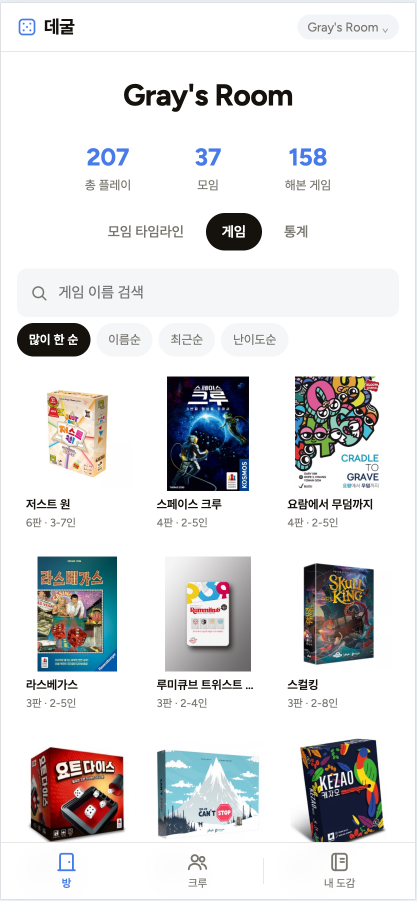
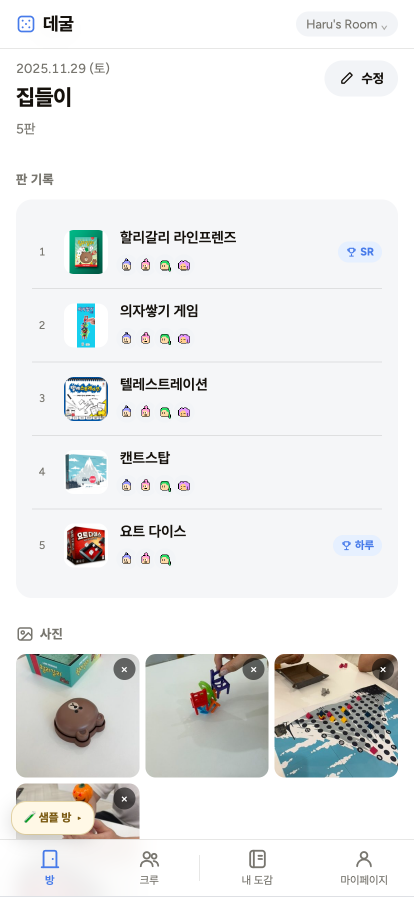
5조 그레이(김수현) 4주차 과제 최종 제출 — 유저 피드백(깨진 가정)·베타 샘플 방·가상 페르소나·SNS 기록
- 과제 2: 주 페르소나 「기록자」 실제 피드백 (새벽 관찰 + '깨진 가정 한 줄') / 베타 테스터 링크 공유 / 가상 페르소나 패널 인터뷰(virtual-customer-feedback 스킬)
- 과제 3: 인스타그램 피드 기록 + 링크
- 스크린샷 5장을 베타 샘플 방 화면으로 교체 (표 배치)
- 페르소나 호칭 '사서'→'기록자' 정정

diff --git a/1_mission/5조/그레이(김수현)/4주차 과제 제출 폴더/submission.md b/1_mission/5조/그레이(김수현)/4주차 과제 제출 폴더/submission.md
@@ -14,24 +14,22 @@ date: 2026-07-25
 > 이번 주는 "나만의 OS"에서 한 발 나아가, **친구들이 실제로 함께 쓰는 프로덕트**를 만들어봤다.
 > 앱 이름은 **데굴** (주사위가 데굴데굴 굴러가는 느낌).
 > **🔗 라이브: https://degul-app.vercel.app**
-> *(이 제출은 1차본이다. 미션 1을 먼저 내고, 베타테스터가 볼 수 있는 샘플 계정·유저 피드백은 일요일 최종 제출까지 이어서 진행 중.)*
 
 ## 🎯 과제 1. PRD 기획 및 구현
 > 주요 가치 · 페르소나 · 소구 방식을 담은 PRD → 구현까지
 
 **한 줄 소개:** 보드게임 모임을 "누구와, 어떤 게임을, 몇 번째로 했는지"까지 남기는 — 초대된 사람만 보는 기록 앱.
-*(전체 PRD는 강의 6항목 + 검증할 가정까지 별도로 상세 작성.)*
 
 - **주요 가치:**
   메인은 **애정** — "우리가 사랑한 판이 그대로 남는다". **사람에 대한 애정**(데이터가 아니라 캐릭터로 사람이 남는다)과 **게임에 대한 애정**(도감에 쌓인다) 둘 다. 받쳐주는 가치는 ① **빈칸을 강요하지 않음**(승자·사진·평은 쓰고 싶을 때만) ② **바깥이 없음**(초대된 사람만, 좋아요·팔로우·랭킹 없음 — SetLog의 "채점받지 않는 소통" 결).
   *근거: 앱을 설명하며 내가 뱉은 두 단어가 "애정"과 "재미"였다. "보드게임 자체가 효율적인 일은 아니야. 그냥 애정과 재미 그 자체지."*
 
 - **페르소나:** 나이·직업이 아니라 **상황**으로 좁혔다. (실제 내 크루 기반, 정체는 역할명으로만)
-  - ⭐ **주 페르소나 = 「사서」**(모임의 기록자) — "기록이 있으면 마음이 편한 사람". 스프레드시트에 206판을 적어온 친구. **이 사람이 입력을 멈추면 앱에 데이터가 0**이라, 가치의 수신자가 아니라 앱을 살리는 사람. → "이 친구가 좋아할 앱은 뭘까"가 모든 결정의 기준이 됐다.
+  - ⭐ **주 페르소나 = 「기록자」**(모임의 기록자) — "기록이 있으면 마음이 편한 사람". 스프레드시트에 206판을 적어온 친구. **이 사람이 입력을 멈추면 앱에 데이터가 0**이라, 가치의 수신자가 아니라 앱을 살리는 사람. → "이 친구가 좋아할 앱은 뭘까"가 모든 결정의 기준이 됐다.
   - 「룰마」(룰마스터 2명, 헤비 플레이어) / 「라이트」(즐겜 참가자, 나 본인 — 기록은 안 하지만 다시 보는 걸 좋아함)
 
 - **소구 방식:** 가치를 그 사람의 언어로 번역했다.
-  - 사서에게 → **"한 판 저장하면 바로 다음 판. 승자는 쓰고 싶을 때만."**
+  - 기록자에게 → **"한 판 저장하면 바로 다음 판. 승자는 쓰고 싶을 때만."**
   - 룰마에게 → **"준비해온 룰, 다 같이 볼 수 있게 걸어둬요."** / **"해본 게임이 도감에 쌓여요."**
   - 라이트에게 → **"누구랑 몇 번째로 만났는지가 남아요."**
   - 크루 전체 → **"초대한 사람만 봅니다. 좋아요 없어요."**
@@ -40,9 +38,9 @@ date: 2026-07-25
   **🔗 라이브: https://degul-app.vercel.app** — 실제 **206판·게임 157개·캐릭터 11명** 데이터로 작동 중.
   기술: 정적 HTML/CSS/JS + Supabase(RPC 창구 방식 보안) + Vercel.
 
-  > 📌 위 스크린샷의 데이터는 **내 개인 계정**으로 들어갔을 때 보이는 실제 우리 크루 기록이다.
-  > **베타 테스터가 눌러볼 수 있는 샘플 계정을 생성 중** — 완성되면 코드를 공유할 예정.
-  > 기다리지 않고 **지금 바로 빈 방을 만들어** 처음부터 써봐도 된다. (테스트 중 앱이 수정돼도 만든 데이터는 안전하게 유지된다.)
+  > 📌 아래 스크린샷은 **누구나 들어가볼 수 있는 베타 테스트 샘플 방**이다. 실제 우리 크루의 217판을 복사해 익명화한 실데이터다.
+  > **직접 눌러보기** → 개인 코드 `degulsample2` · 방 코드 `degultest2` (지우고 고쳐도 OK — 화면의 🧪 버튼으로 언제든 처음 상태로 되돌아간다)
+  > 빈 방을 새로 만들어 처음부터 써봐도 된다.
 
   가장 큰 배움은, **만들다 보니 구조가 대화로 진화**했다는 것이다. "내가 쓴 평점을 남이 보면 안 되지"라는 한마디에서 출발해 → 개인 도감에 자물쇠가 필요해지고 → **"방 위에 사람"이라는 3층 구조**로 발전했다. 원래 다음 단계로 미뤘던 계정·초대·개인 도감까지 이번에 구현됐다.
 
@@ -53,34 +51,94 @@ date: 2026-07-25
      └ 모임·판·참여자(공용) · 게임 · 캐릭터 · 방장
   ```
 
-  **핵심 기능:** 모임·판 기록(판마다 참여자 지정) · 게임 도감·통계 · 개인 도감(나만 보는 평점·한줄평) · 방장 시스템 · 완료 모임 에피소드(댓글) · 넷플릭스식 계정 전환 · 캐릭터(도트 이미지/이모지/사진).
+  **핵심 기능:** 모임·판 기록(판마다 참여자 지정) · 게임 도감·통계 · 개인 도감(나만 보는 평점·한줄평) · 방장 시스템 · 완료 모임 에피소드(댓글) · 넷플릭스식 계정 전환 · 캐릭터(이미지/이모지/사진).
 
-  > *스크린샷의 캐릭터 닉네임은 임시 — 베타 테스터에게 줄 샘플 계정에서 교체 예정.*
 
-  ![방 — 모임 타임라인](이미지첨부/1.png)
-  *① 방 — 통계 요약 · 같이 한 사람들 · 연도별 모임 타임라인 · 게임 칩(누르면 게임 정보 팝업).*
+  | 방 — 모임 타임라인 | 모임 상세 | 게임 도감 | 내 도감 게임 상세 | 마이페이지 |
+  |---|---|---|---|---|
+  | ![방](이미지첨부/1.png) | ![모임 상세](이미지첨부/2.png) | ![게임 도감](이미지첨부/4.png) | ![내 도감 게임 상세](이미지첨부/6.png) | ![마이페이지](이미지첨부/7.png) |
 
-  ![게임 도감](이미지첨부/2.png)
-  *② 게임 — 해본 게임을 박스아트로. 많이 한 순·이름·최근·난이도로 정렬.*
-
-  ![통계](이미지첨부/3.png)
-  *③ 통계 — 최다 플레이 게임 · 연도별 · 모임별 · 최다 참여 크루 · 처음 함께한 날 · 찰떡 짝꿍.*
-
-  ![크루](이미지첨부/4.png)
-  *④ 크루 — 함께한 사람들. 캐릭터를 개인 코드로 "잡으면" 그 방의 내 판들이 내 도감에 모인다.*
-
-  ![내 도감](이미지첨부/5.png)
-  *⑤ 내 도감 — 여러 방을 가로질러 모이는 나만의 기록. 평점·한 줄 평은 나만 본다(개인 코드로만 열림).*
+  *① 방 — 통계 요약·같이 한 사람들·연도별 타임라인 ② 모임 상세 — 판 기록·승자·사진 ③ 게임 도감 — 해본 게임을 박스아트로, 6가지 정렬·CSV 일괄 등록 ④ 내 도감 게임 상세 — 소장 배지·방마다 골라 공개·방별 판 기록 ⑤ 마이페이지 — 넷플릭스식 계정 전환·방 관리*
 
 ## 🗣 과제 2. 유저 피드백 받기
-> 실제 2명 이상 + 플러스 알파로 가상 페르소나
 
-- **실제 유저 피드백:** 실제 보드게임을 같이 하는 친구에게 유저 피드백을 받을 예정.
-- **가상 페르소나 피드백:** NVIDIA Nemotron-Personas-Korea 기반 가상 페르소나 피드백도 진행해 볼 예정.
-- **피드백에서 알게 된 것:** *(진행 후 작성)*
+### 실제 유저 피드백 ① — 주 페르소나 「기록자」
+
+전날 이 친구에게 "게임 정보를 기록할 때 어디서 끌어오냐"고 물어봐 둔 참이었다(답: 보드게임긱). 그리고 하루 종일 앱을 수정하다가, 어느 정도 완성돼 간다 싶던 **새벽 1시 35분** — "어제 그거 만들고 있는데 수정할 게 너무 많아"라며 DM으로 URL을 보냈다.
+
+한 시간 뒤 친구가 '구경하러 들어가기' 화면을 캡처해 보내왔다(방 코드를 알려달라는 뜻). 방 코드를 주면서 내가 부탁한 건 하나였다 — **"이상한거 보이거나 수정했으면 좋겠는 부분 말해주세여."** 그러니까 부탁한 건 *봐달라*는 것이었지, *채워달라*는 게 아니었다.
+
+> "오오ㅏ 싱기하고 구엽닼ㅋㅋㅋ" → "너무나 내가 조아하는 기록" → **"장소 내가 넣어도 돼?"**
+
+"갑자기 또 기록시작하냐구ㅋㅋ" 하면서 "넣으세여" 했더니, 새벽 4시 반 — **"장소 다 넣었구."** 비어 있던 모임 장소를 정말 다 채운 것이다. 그 뒤로도 멈추지 않았다 —
+게임 이름 뒤에 붙은 메모 때문에 정보가 안 불려오는 걸 발견하고 **직접 정리했고**("뒤에 (12~16) 이렇게 몇번째 임무 적어놔서 게임 정보 안불러와져서"), 내가 기억 안 나서 네댓 개만 넣어뒀던 「먼 옛날」 모임에 자기 스프레드시트를 뒤져 **게임을 10개로 늘려놨다.**
+
+**버그도 유저가 먼저 찾았다:**
+- **"저장이 안돼요"** — 도감 평점·코멘트 저장이 전원 고장 나 있던 걸 발견 (DB 함수 실수. 더 나빴던 건 실패해도 화면에 아무 말이 없던 것 → 실패 안내 표시까지 고침)
+- 게임 팝업에 출시 연도가 두 번 나오는 것, 페이퍼 사파리 이미지가 확장팩 이미지로 잘못 등록된 것까지 캡처로 제보
+- 기능 요청: "댓글 수정 기능은 안되나요" → 그 자리에서 만들어 배포
+
+그리고 새벽 5시 34분, 이 한마디가 왔다.
+
+> **"평점 코멘트 다른 사람이 남긴것도 보고 싶은데 이거슨 비밀인가여"**
+> **"나는 다른 사람들에 남긴거 구경하는 재미가 잇는데ㅋㅋ"**
+
+### ⭐ 깨진 가정 한 줄
+
+> **"기록은 혼자 하는 일이라고 생각했는데, 이 친구에게 기록은 같이 노는 일이었다."**
+
+두 겹으로 깨졌다.
+- **PRD 가정 A3-c** — "의견(평점·한 줄 평)은 본인만 적으니, 도감은 나만 보는 게 맞다"고 설계했다. 반은 맞았다(적는 건 본인만). 하지만 **보여주고 싶어 한다는 건 놓쳤다.** → 그날 밤 **게임마다·방마다 골라서 공개하는 스위치**를 만들어 배포했다. 기본은 여전히 비공개, 메모·사진은 언제나 비공개 — "솔직하게 쓴다"는 원래 가치는 지키면서.
+- **더 깊은 가정** — 나는 이 친구가 정말 좋아서 기록하는 건지 가끔 물어볼 만큼 반신반의했다. 내가 부탁한 건 "이상한 곳 알려주기"뿐이었는데, "장소 내가 넣어도 돼?"라고 먼저 묻고는 새벽 내내 남의 앱 데이터를 돌보는 걸 보고 알았다. **진심이었다.**
+
+### 실제 유저 피드백 ② — 베타 테스터 링크 공유
+
+누구나 볼 수 있게 **실데이터를 복사·익명화한 샘플 계정**을 열어뒀다. (개인정보 제거, 망가뜨려도 되는 복사본, 화면의 🧪 버튼으로 언제든 초기화)
+
+> **https://degul-app.vercel.app** · 개인 코드 `degulsample2` · 방 코드 `degultest2`
+
+### 가상 페르소나 피드백 — 패널 인터뷰 (강의 스킬 `virtual-customer-feedback` 사용)
+
+> ⚠ **가상 피드백은 실제 검증의 전 단계다** — 실제 유저(위 기록자) 피드백을 대체하지 않는다.
+> 페르소나 팩 30명 중 "보드게임 모임" 카드는 없어서, 규칙대로 **가장 가까운 분석형 게이머·기록 성향 3명**을 부르고 차이를 명시한다. (룰마와 겹치는 속성: 게임 분석·기록 습관 / 다른 속성: 보드게임 크루 소속 여부는 카드에 없음)
+
+**패널에게 준 설명:** "친구들끼리 보드게임 모임을 기록하는 앱. 방 코드로 초대받고, 개인 코드 12자리가 계정(이메일·가입 없음, 분실 시 복구 불가). 모임·판·참여자를 남기면 게임 도감·통계가 쌓이고, 룰 영상을 걸어둘 수 있다. 평점은 기본 비공개, 원하면 방마다 공개. 좋아요·랭킹 없음, 무료."
+
+**이태훈 (27세, 구직 중, 경기 파주)** — e스포츠 전략을 메모하며 보는 분석형, 변수 싫어함
+> 첫 반응: "판마다 참여자를 남긴다는 건 좋네요. 데이터가 쌓이면 조합 분석이 되니까." / 안 쓸 이유: ① "저는 같이할 사람이 없어서요… 이건 제 문제지만" ② "뭘 얼마나 적어야 하는지 기준이 없으면 오히려 불안해요. '쓰고 싶을 때만'은 저 같은 사람한텐 매뉴얼 부재예요" / 그래도 쓴다면: "통계 때문에. 승률 나오면 진짜 열심히 할 듯" / 한 문장: "기록 쌓이면 재밌어지는 타입의 앱."
+
+**원상희 (38세, 재취업 준비, 경기 안양)** — 십 원 단위로 정산하는 꼼꼼함, 모바일 게임 일일 퀘스트
+> 첫 반응: "기록 좋아하는 사람은 환장하겠는데요, 저처럼." / 안 쓸 이유: ① "제 모임은 술자리라 적을 게 없어요" ② "일퀘처럼 매일 들어올 이유가 없잖아요. 모임이 한 달에 한 번이면 앱도 한 달에 한 번 열리는 거고" / 그래도 쓴다면: "누가 정산처럼 역할을 맡기면 잘할 자신 있어요" / 한 문장: "모임에 나 같은 사람 있으면 물건이다."
+
+**송순근 (49세, 출판사 정보보안 전문가, 서울 목동)** — 인접 세그먼트
+> 첫 반응: "이메일 없이 코드 두 개라… 오히려 공격면이 작아서 나쁘지 않아요." / 안 쓸 이유: ① "방 코드 하나 알면 그 방 기록이 다 보인다는 건데, 코드가 카톡방에서 한 번 새면 끝이죠. 코드 재발급이 있어야 해요" ② "40대 후반 모임에서 이런 걸 깔자고 하면 아무도 안 깔아요" / 그래도 쓴다면: "애들(자녀) 친구 모임 같은 데선 되겠죠" / 한 문장: "보안 구조는 소박해서 좋은데, 코드 유출 시나리오는 준비해라."
+
+**요약**
+- **공통 거절 이유:** "기록을 도맡을 사람이 내 모임엔 없다" — 3명 중 2명. 데굴은 **기록자가 있는 크루에서만 사는 앱**이라는 가두리 경계가 재확인됐다. (= 무시해도 되는 거절: 애초에 크루가 없는 사람은 고객이 아님)
+- **갈린 반응:** 개인 코드 — "가입 없어 편하다"(원상희) vs "유출되면 끝이니 재발급이 필요하다"(송순근). **타깃도 느낄 수 있는 약점**이라 분실 안내 문구를 이미 강화했고, 방 코드 재발급은 운영자 기능(8월 예정)에 넣기로.
+- **다음 액션:** ① 실제 룰마 2명에게 승률·통계 수요 확인 (이태훈의 "승률 나오면 열심히 할 듯"이 진짜인지) ② 코드 유출·재발급 시나리오 문서화.
+
+**🧽 가상 고객 피드백 이기적공유 카드**
+- 프로덕트: 데굴 — 초대된 크루만 쓰는 보드게임 모임 기록 앱
+- 만난 가상 고객: 이태훈(27·구직) · 원상희(38·재취업 준비) · 송순근(49·정보보안)
+- 가장 의외였던 반응: "'쓰고 싶을 때만'은 저 같은 사람한텐 **매뉴얼 부재**예요" (이태훈) — 빈칸을 강요하지 않는 게 자유가 아니라 불안일 수 있다
+- 그래서 바꾸기로 한 것: 방 코드 재발급(운영자 기능)을 로드맵에 추가
+- 아직 확인 못한 것: 실제 룰마들이 승률·통계를 정말 원하는가 — 실제 인터뷰로만 답이 나온다
+
+### 피드백에서 알게 된 것
+
+1. **자물쇠보다 애정이 먼저였다.** 나는 "내가 쓴 평점을 남이 보면 싫을 수도 있다, 마음 편하게 못 쓸 것 같다"는 생각에 도감에 자물쇠 채우는 작업을 제일 신경 써서 했다. 그런데 이 앱 자체가 **애정과 재미로 지인들과 즐기는 보드게임의 결과물**이다. 그 게임의 연장선인 기록에서도, 자물쇠로 나뉘어진 공간에 홀로 적는 것보다 **친구의 한 줄 평을 보면서 게임했던 당시를 떠올리고 즐거워하는 쪽**을 내 친구는 더 좋아했다. 프라이버시는 기본값으로 지키되, 공개는 선택지여야 했다.
+2. **주 페르소나는 피드백을 '말'로만 주지 않는다.** 기록자의 피드백은 절반이 **행동**이었다(장소 채우기·데이터 정리). 물어봐서 얻는 것보다 **쓰게 하고 지켜보는 게** 몇 배 정확하다.
+3. **실패는 조용하면 안 된다.** "저장이 안돼요"의 진짜 문제는 버그가 아니라, 실패했는데 **아무 말도 안 한 화면**이었다. 유저는 원인을 모르면 자기 탓을 한다.
 
 ## 📣 과제 3. SNS 기록 남기기
 > 기획 · 구현 · 피드백의 전 과정과 소회를 기록으로
 
-- **기록 내용 (소회):** *(진행 예정 — 이번 기획·구현의 좌충우돌 과정을 정리. 설계 대화 전 과정은 이미 상세히 기록해둠.)*
-- **SNS 인증 링크:** *(진행 후 추가)*
+- **기록 내용 (소회):** 기획 → 구현 → 유저 피드백까지의 과정을 인스타그램 피드로 남겼다.
+  > 친구들과의 보드게임 기록 앱 「데굴」을 만들었다.
+  > 가입 없이 코드 두 개, 초대한 사람만, 좋아요 없음.
+  > 3년 치 217판이 스프레드시트에서 앱으로 옮겨졌다.
+  >
+  > 자물쇠 채우는 데 제일 공들였던 나는
+  > 페르소나의 한마디에 코멘트 공개 버튼을 만들었다 🗝
+- **SNS 인증 링크:** https://www.instagram.com/p/DbPWKMpk3hM/
